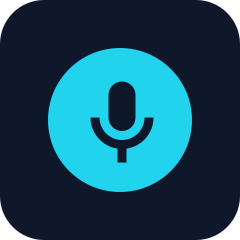
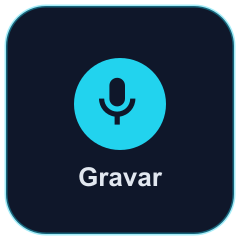
feat(mobile): widget com a cara da marca (tile + mic + rotulo Gravar) (#66)
Widget de tela inicial redesenhado: tile escuro arredondado com borda
ciano, microfone em destaque e rotulo 'Gravar'. Preview atualizado.

diff --git a/apps/mobile/src/widget/RecordWidget.tsx b/apps/mobile/src/widget/RecordWidget.tsx
@@ -1,16 +1,18 @@
-import { FlexWidget, SvgWidget } from 'react-native-android-widget'
+import { FlexWidget, SvgWidget, TextWidget } from 'react-native-android-widget'
 
 // Cores da marca (literais; o widget nativo exige cor no formato #RRGGBB[AA]).
 const CYAN = '#22D3EE'
 const DARK = '#0F172A'
+const LIGHT = '#E2E8F0'
+const BORDER = '#22D3EE66' // ciano 40%
+
 // Microfone (mesma forma do app). Cor escura sobre o círculo ciano.
 const MIC_SVG = `<svg xmlns="http://www.w3.org/2000/svg" viewBox="0 0 24 24" fill="${DARK}"><path d="M12 14a3 3 0 0 0 3-3V6a3 3 0 1 0-6 0v5a3 3 0 0 0 3 3zm5-3a5 5 0 0 1-10 0H5a7 7 0 0 0 6 6.92V21h2v-3.08A7 7 0 0 0 19 11h-2z"/></svg>`
 
 /**
- * Widget de tela inicial (Android): botão de microfone. Ao tocar, abre o
- * appMila no deep link mila://record — que cai direto no gravador de voz.
- * (Android não permite gravar áudio nem animar dentro do widget; a gravação
- * e a animação acontecem no app, a um toque daqui.)
+ * Widget de tela inicial (Android): tile escuro com a cara do appMila —
+ * microfone ciano em destaque + rótulo "Gravar". Ao tocar, abre o app no
+ * deep link mila://record (cai direto no gravador de voz).
  */
 export function RecordWidget() {
   return (
@@ -20,23 +22,29 @@ export function RecordWidget() {
       style={{
         height: 'match_parent',
         width: 'match_parent',
+        flexDirection: 'column',
         justifyContent: 'center',
         alignItems: 'center',
-        backgroundColor: '#00000000',
+        backgroundColor: DARK,
+        borderRadius: 28,
+        borderWidth: 1,
+        borderColor: BORDER,
+        padding: 8,
       }}
     >
       <FlexWidget
         style={{
-          height: 96,
-          width: 96,
-          borderRadius: 48,
+          height: 60,
+          width: 60,
+          borderRadius: 30,
           backgroundColor: CYAN,
           justifyContent: 'center',
           alignItems: 'center',
         }}
       >
-        <SvgWidget svg={MIC_SVG} style={{ height: 46, width: 46 }} />
+        <SvgWidget svg={MIC_SVG} style={{ height: 32, width: 32 }} />
       </FlexWidget>
+      <TextWidget text="Gravar" style={{ fontSize: 13, fontWeight: 'bold', color: LIGHT, marginTop: 8 }} />
     </FlexWidget>
   )
 }
